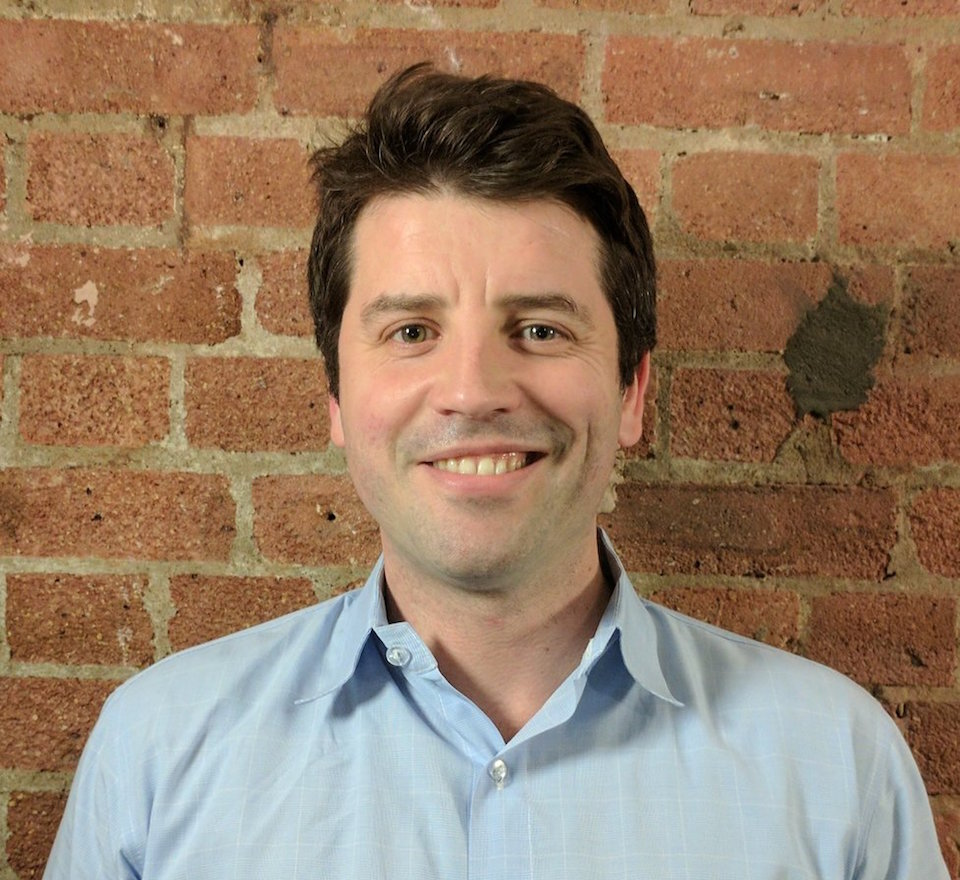
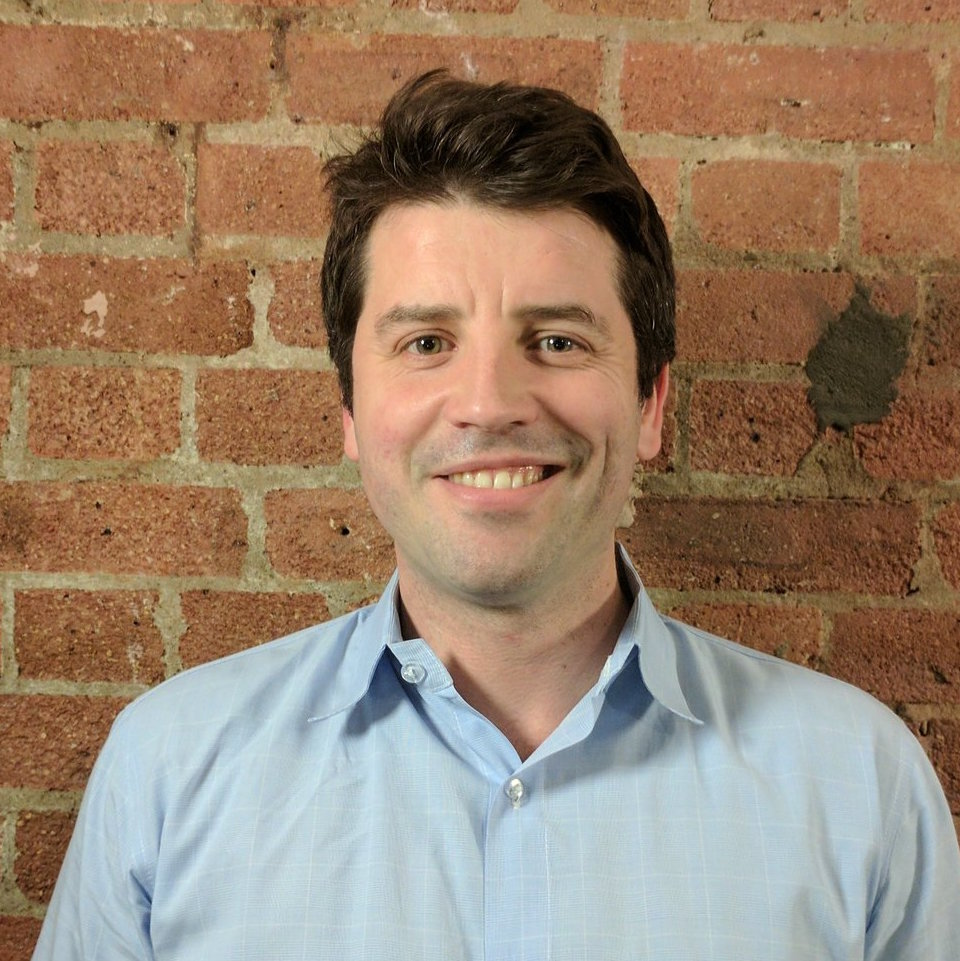
fix photos size

diff --git a/index.html b/index.html
@@ -183,7 +183,7 @@
         <div class="container">
             <div class="row">
                 <div class="col-md-6 text-center">
-                  <img class="d-flex mr-3" src="img/jonathan.jpg" width="30%">
+                  <img class="d-flex mr-3" src="img/jonathan.jpg" height="30%">
                   <div class="media-body ">
                     <h5 class="mt-0">Jonathan O'Keeffe, CEO </h5>
                     I am a doctor and neuroscientist and I have a masters in machine learning from UCL. 
@@ -191,7 +191,7 @@
                   </div>
                 </div>
                 <div class="col-md-6 text-center">
-                  <img class="d-flex mr-3" src="img/georgiana.jpg" alt="Georgiana photo" width="30%">
+                  <img class="d-flex mr-3" src="img/georgiana.jpg" alt="Georgiana photo" height="30%">
                   <div class="media-body">
                     <h5 class="mt-0">Georgiana Petria, CTO </h5>
                     I have 5 years of experience as a software engineer. I worked for Amazon Video where I built products for millions of customers. <a href="https://uk.linkedin.com/in/flora-ponjou-tasse-ba6b7026" class="widget widget-icon" target="_blank"><i class="fa fa-linkedin-square"></i></a>
